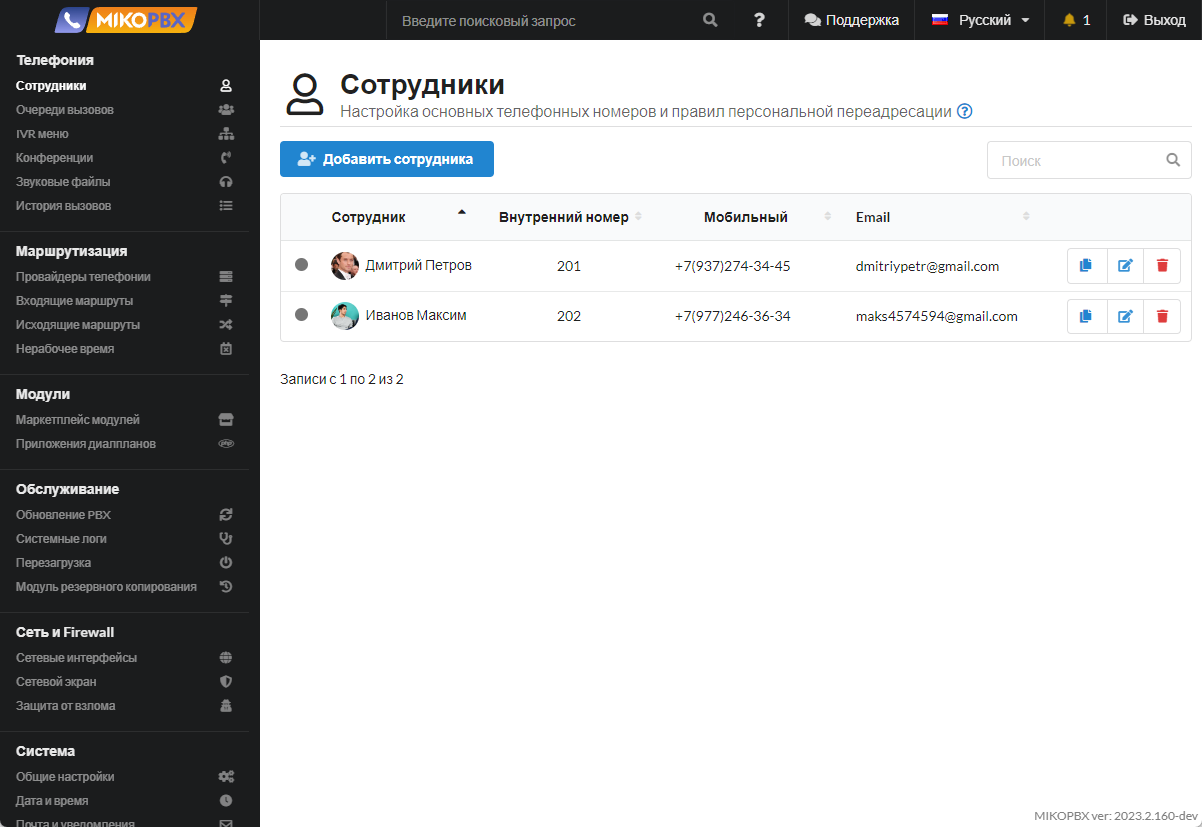
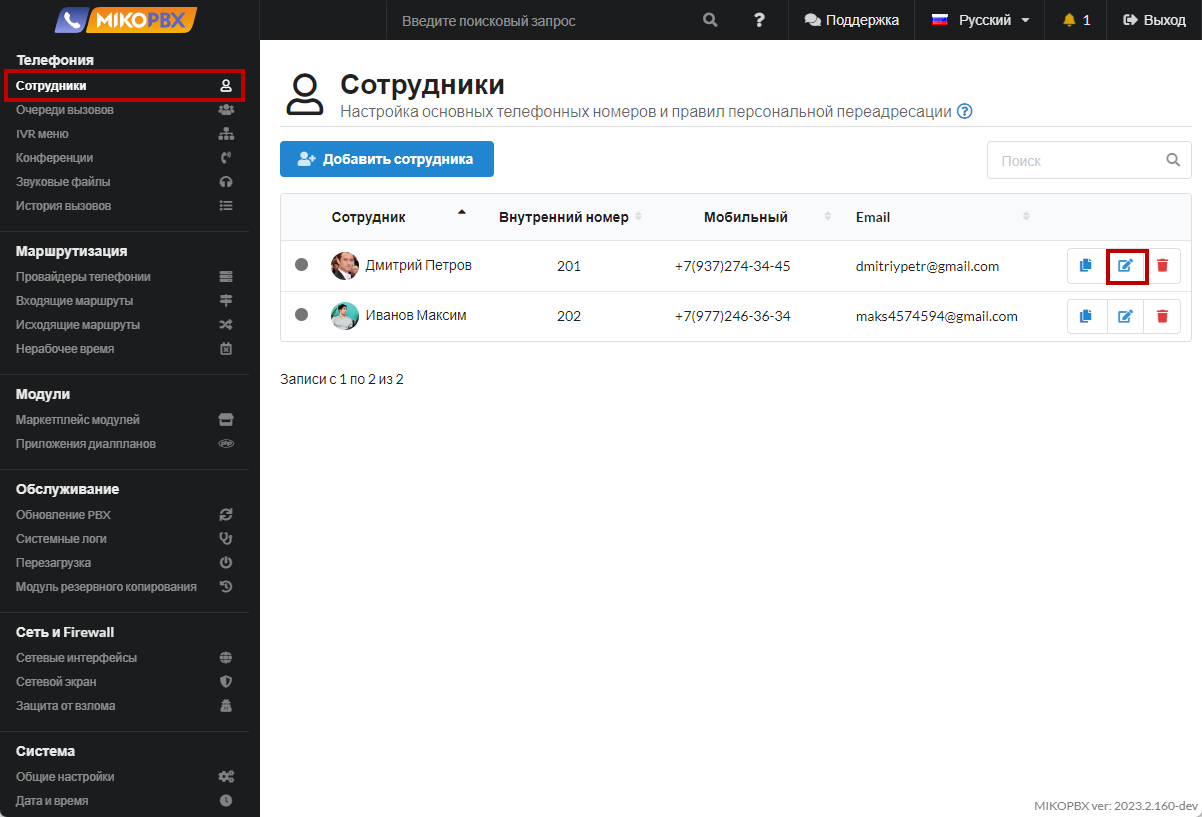
GITBOOK-367: change request with no subject merged in GitBook

diff --git a/faq/management/izmenit-imya-dlya-avtorizacii.md b/faq/management/izmenit-imya-dlya-avtorizacii.md
@@ -1,2 +1,29 @@
 # Изменить имя для авторизации
 
+При добавлении на АТС нового [Сотрудника](../../manual/telefoniya/extensions.md) на АТС заводится учетная запись SIP с числовым внутренним номером. В ряде случаев, в целях безопасности есть необходимость изменить имя для авторизации этого сотрудника.
+
+При настройке SIP Клиентов часто можно увидеть два ключевых параметра:
+
+1. **Username** - обычно равен ID учетной записи, в случае с MikoPBX равне внутреннему номеру
+2. **Auth Username** - имя пользователя для авторизации. В случае MikoPBX равен внутреннему номеру
+
+Для изменения имени авторизации:
+
+1. Откройте учетную запись сотрудника на редактирование
+
+<figure><img src="../../.gitbook/assets/extensions.png" alt=""><figcaption><p>Раздел "Сотрудники" </p></figcaption></figure>
+
+2. Перейдите к «**Расширенным настройкам**» → «**Дополнительные параметры SIP**»
+
+<figure><img src="../../.gitbook/assets/extraExtensions.png" alt=""><figcaption><p>Расширенные настройки сотрудника</p></figcaption></figure>
+
+3. Добавьте следующие строчки:
+
+```php
+[auth] 
+username = MIKO204
+```
+
+Вместо **MIKO204** укажите имя для авторизации, желательно использовать и буквы и цифры
+
+<figure><img src="../../.gitbook/assets/extraExtensions2.png" alt=""><figcaption><p>Дополнительные параметры</p></figcaption></figure>

diff --git a/faq/vkhodyashaya-marshrutizaciya/bazovyi-primer-ivr.md b/faq/vkhodyashaya-marshrutizaciya/bazovyi-primer-ivr.md
@@ -21,7 +21,7 @@
 
 &#x20;1\. Создаем **учетные записи сотрудников** по [инструкции](../../manual/telefoniya/extensions.md). Подключаем программные или аппаратные телефоны к данным учетным записям.
 
-<figure><img src="../../.gitbook/assets/extensions.png" alt=""><figcaption><p>Сотрудники </p></figcaption></figure>
+<figure><img src="../../.gitbook/assets/extensions (1).png" alt=""><figcaption><p>Сотрудники </p></figcaption></figure>
 
 2. Добавляем **звуковой файл** приветствия по [инструкции](../../manual/telefoniya/sound-files.md), который будет слышать клиент при звонке на номер компании.
 

diff --git a/faq/iskhodyashaya-marshrutizaciya/zvonok-cherez-opredelennogo-provaidera.md b/faq/iskhodyashaya-marshrutizaciya/zvonok-cherez-opredelennogo-provaidera.md
@@ -4,7 +4,7 @@
 
 В MikoPBX (_**Телефония → Сотрудники**_) настроены следующие учетные записи сотрудников:
 
-<figure><img src="../../.gitbook/assets/extensions (1) (1).png" alt=""><figcaption><p>Раздел "Сотрудники"</p></figcaption></figure>
+<figure><img src="../../.gitbook/assets/extensions (1) (1) (1).png" alt=""><figcaption><p>Раздел "Сотрудники"</p></figcaption></figure>
 
 В MikoPBX настроены **два провайдера** (_**Маршрутизация → Провайдеры телефонии**_):
 
